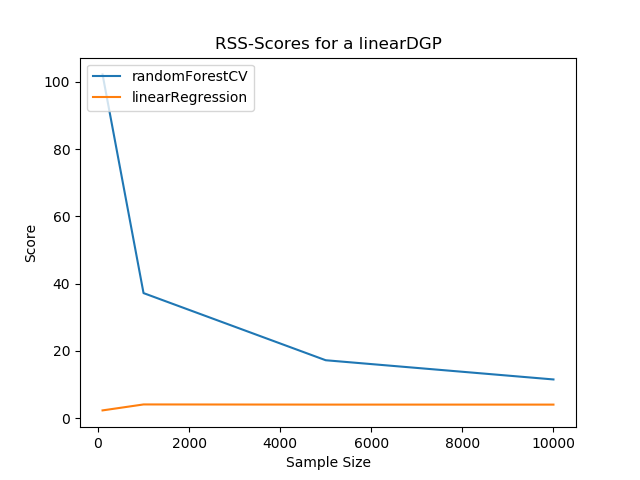
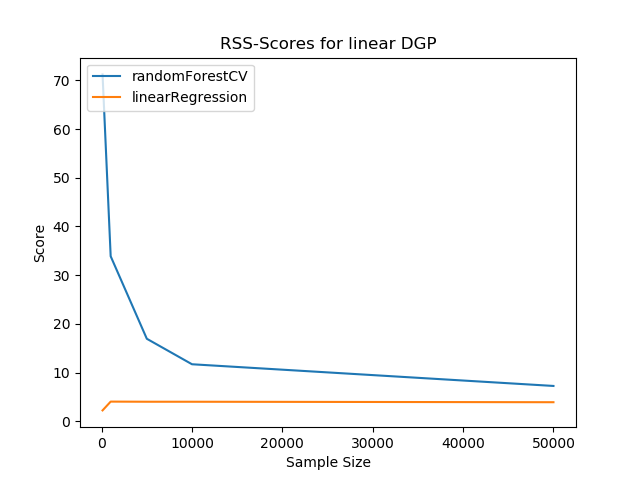
Changed simulation setup

diff --git a/simulation.py b/simulation.py
@@ -19,10 +19,10 @@ class MonteCarloSimulation():
         self.meanScores = []
         self.results = {}
         self.sampleSizes = sampleSizes
-        print(f"DGP: {dgp.__name__}")
+        print("DGP:", dgp.__name__)
 
     def simulate(self, method, simulationNum = 1000, evaluate="R2"):
-        print(f"Simulate {method.__name__}")
+        print("Simulate", method.__name__)
         meanScores = []
         for size in self.sampleSizes:
             print("Sample size:", size)
@@ -131,15 +131,19 @@ def linearRegression(features, target, random_state):
     return ols
 
 if __name__ == '__main__':
-    # Iterate through DGPs 
-    for dgp in [linearDGP, nonLinearDGP]:
-        mcs = MonteCarloSimulation(dgp, sampleSizes = [100, 1000, 5000, 10000])
+    # Plot RSS of random forest on increasing samples from non-linear DGP
+    mcs = MonteCarloSimulation(nonLinearDGP, sampleSizes = [100, 1000, 5000, 10000, 50000])
 
-        mcs.simulate(method=randomForestCV, simulationNum = 5, evaluate="RSS")
-
-        mcs.simulate(method=linearRegression, simulationNum = 5, evaluate="RSS")
-        
-        mcs.plot(title=f"RSS-Scores for a {dgp.__name__}",
-                 filePath=f"plots/forest_vs_ols_{dgp.__name__}")
-
+    mcs.simulate(method=randomForestCV, simulationNum = 1, evaluate="RSS")
     
+    mcs.plot(title="RSS-Scores for non-linear DGP",
+             filePath="plots/forest_vs_ols_nonlinearDGP")
+    # Compare RSS of random forest and ols on increasing sample sizes frim linear DGP
+    mcs = MonteCarloSimulation(linearDGP, sampleSizes = [100, 1000, 5000, 10000, 50000])
+
+    mcs.simulate(method=randomForestCV, simulationNum = 1, evaluate="RSS")
+
+    mcs.simulate(method=linearRegression, simulationNum = 1, evaluate="RSS")
+    
+    mcs.plot(title=f"RSS-Scores for linear DGP",
+                filePath=f"plots/forest_vs_ols_linearDGP")
